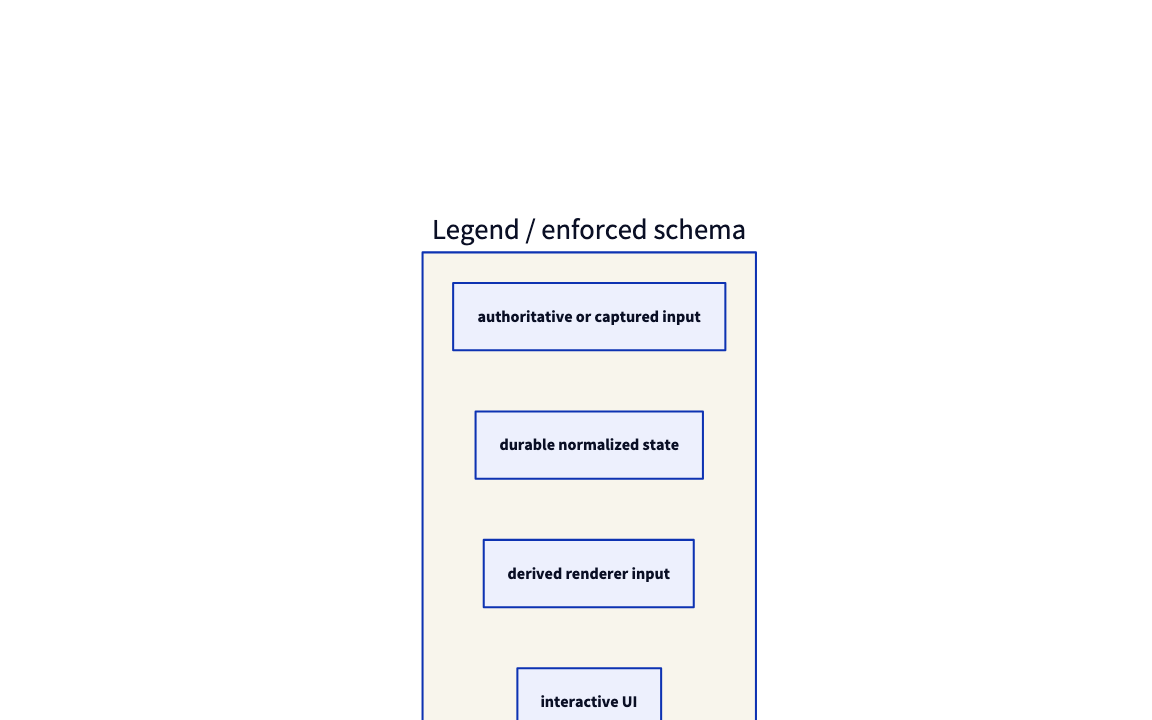
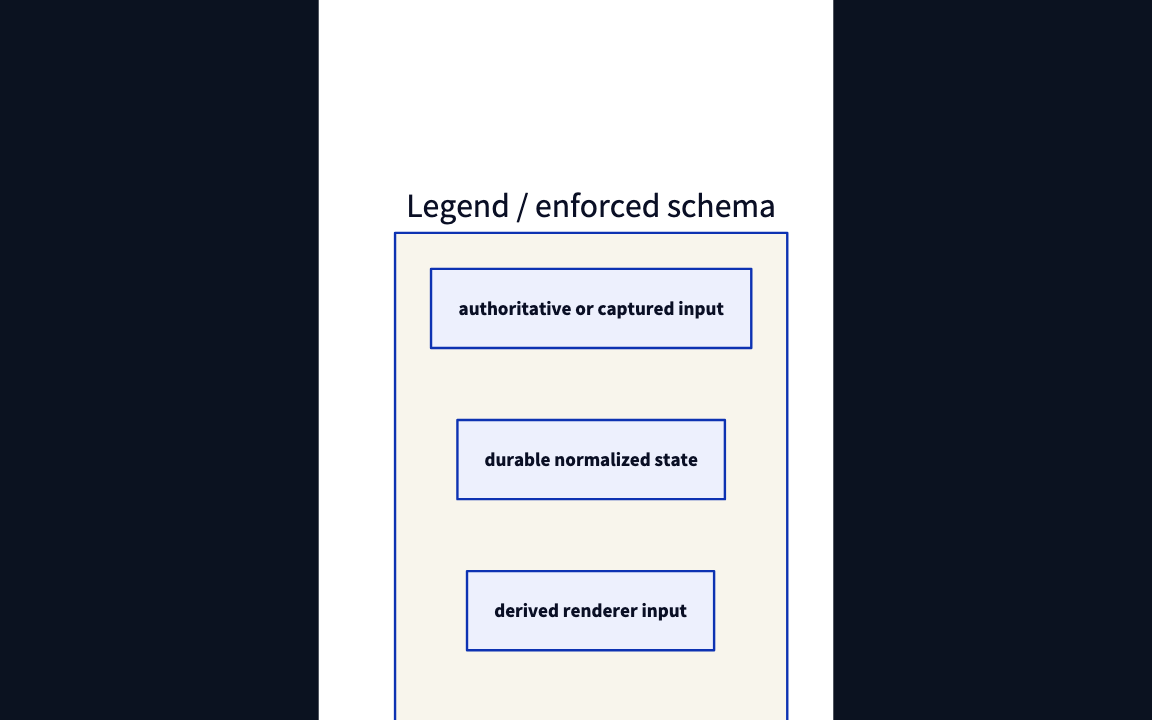
grapht: proof zoom crops the artifact viewBox and hides the native hull
Chromium rasterizes a 25k-unit svg element into one downscaled texture, so
the zoomed window read as fuzz. The zoom artifact now carries the measured
cluster window in its root viewBox and rasterizes at viewport size, with the
text node's screen box asserted inside the viewport. The default-styled
Cytoscape hull node under the sealed root stays hidden; the overlay is the
path under proof.

diff --git a/packages/grapht/adapters/2_render_cytoscape/7_proof.browser.test.ts b/packages/grapht/adapters/2_render_cytoscape/7_proof.browser.test.ts
@@ -65,6 +65,10 @@ describe("sealed architecture diagram proof", () => {
     host.setAttribute("style", "position:fixed;inset:0;background:#0b1220")
     document.body.appendChild(host)
     const resource = createCytoscapeGraphFrameResource(host)
+    // The sealed root also owns a native hull node in Cytoscape; this proof is
+    // about the sealed svg overlay, so the default-styled hull stays hidden.
+    const cyContainer = host.querySelector("canvas")?.parentElement
+    if (cyContainer) cyContainer.style.visibility = "hidden"
     resource.render(frame, { enterIds: ["epic"], updateIds: [], exitIds: [] })
 
     await expect
@@ -93,27 +97,54 @@ describe("sealed architecture diagram proof", () => {
     const seed = boxes[0]
     const cluster = boxes.filter(box => Math.abs(box.x - seed.x) < 900 && Math.abs(box.y - seed.y) < 500)
     expect(cluster.length).toBeGreaterThan(3)
-    const left = Math.min(...cluster.map(box => box.x)) - 60
-    const top = Math.min(...cluster.map(box => box.y)) - 60
-    const right = Math.max(...cluster.map(box => box.x + box.width)) + 60
-    const bottom = Math.max(...cluster.map(box => box.y + box.height)) + 60
-    const zoomScale = Math.max(Math.min(1160 / (right - left), 680 / (bottom - top), 1.6), 0.8)
-    const zoomCamera = {
-      x: 640 - ((left + right) / 2) * zoomScale,
-      y: 400 - ((top + bottom) / 2) * zoomScale,
-      scale: zoomScale,
-      viewport: { x: 0, y: 0, width: 1280, height: 800 },
-    }
-    resource.render({ ...frame, camera: zoomCamera }, { enterIds: [], updateIds: ["epic"], exitIds: [] })
+    const left = Math.max(Math.min(...cluster.map(box => box.x)) - 60, 0)
+    const top = Math.max(Math.min(...cluster.map(box => box.y)) - 60, 0)
+    const right = Math.min(Math.max(...cluster.map(box => box.x + box.width)) + 60, width)
+    const bottom = Math.min(Math.max(...cluster.map(box => box.y + box.height)) + 60, height)
 
-    const screenLeft = left * zoomScale + zoomCamera.x
-    const screenTop = top * zoomScale + zoomCamera.y
-    const screenRight = right * zoomScale + zoomCamera.x
-    const screenBottom = bottom * zoomScale + zoomCamera.y
-    expect(screenLeft).toBeGreaterThan(0)
-    expect(screenRight).toBeLessThan(1280)
-    expect(screenTop).toBeGreaterThan(0)
-    expect(screenBottom).toBeLessThan(800)
+    // A 25k-unit svg element rasterizes into one downscaled texture and the
+    // zoomed crop reads as fuzz. The zoom artifact carries the cluster window
+    // in its root viewBox, so chromium rasterizes a viewport-sized element.
+    const cropped = new DOMParser().parseFromString(archSvg, "image/svg+xml").documentElement
+    cropped.setAttribute("viewBox", `${left} ${top} ${right - left} ${bottom - top}`)
+    cropped.removeAttribute("width")
+    cropped.removeAttribute("height")
+    const zoomFrame: GraphFrame = {
+      graph: frame.graph,
+      geometry: {
+        revisionId: "epic:zoom:1",
+        boundsById: { epic: { x: 0, y: 0, width: 1280, height: 800 } },
+        endpointAnchorById: { epic: { x: 640, y: 400 } },
+        routesById: {},
+        headerBoundsById: {},
+      },
+      camera: { x: 0, y: 0, scale: 1, viewport: { x: 0, y: 0, width: 1280, height: 800 } },
+      presentation: {
+        ...frame.presentation,
+        sealedSvgArtifactsByRootId: {
+          epic: {
+            rootId: "epic",
+            revisionId: "epic:svg:zoom:1",
+            geometryRevisionId: "epic:zoom:1",
+            svg: new XMLSerializer().serializeToString(cropped),
+            sourceBounds: { x: left, y: top, width: right - left, height: bottom - top },
+            fit: "contain",
+          },
+        },
+      },
+    }
+    resource.render(zoomFrame, { enterIds: [], updateIds: ["epic"], exitIds: [] })
+
+    const zoomView = host.querySelector<HTMLElement>('[data-grapht-overlay="sealed-svg"] [data-revision-id="epic:svg:zoom:1"]')
+    expect(zoomView).not.toBeNull()
+    const zoomSvg = zoomView?.querySelector("svg")
+    const zoomRect = zoomSvg?.getBoundingClientRect()
+    expect(zoomRect?.width).toBeGreaterThan(400)
+    const zoomedText = zoomSvg?.querySelectorAll("text")[0] as SVGTextElement
+    const textRect = zoomedText.getBoundingClientRect()
+    expect(textRect.left).toBeGreaterThan(0)
+    expect(textRect.right).toBeLessThan(1280)
+    expect(textRect.height).toBeGreaterThan(6)
 
     await page.screenshot({ path: "proof/arch-zoom.png" })
     resource.unsubscribe()
